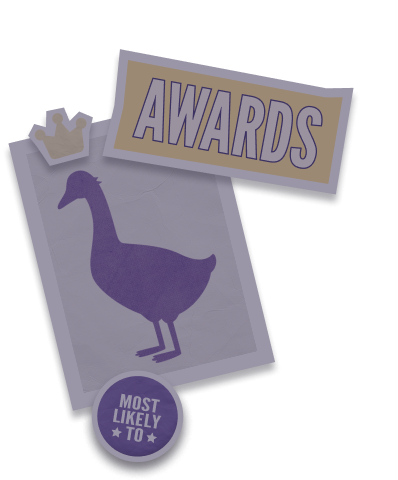
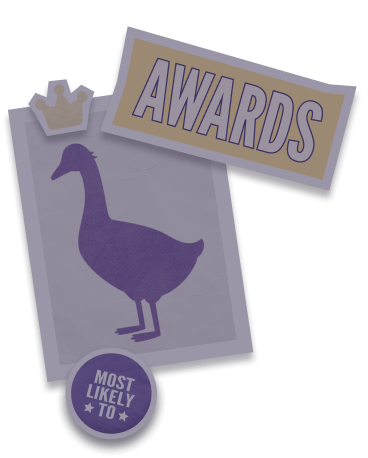
Finished landing page v1

diff --git a/src/app/landing.scss b/src/app/landing.scss
@@ -69,11 +69,6 @@
       transition: transform 0.2s ease, filter 0.2s ease;
       cursor: pointer;
       
-      &:hover {
-        transform: scale(1.05);
-        z-index: 12;
-      }
-      
       &:active {
         transform: scale(0.95);
       }
@@ -92,6 +87,10 @@
       width: 16.5%;
       height: auto;
       z-index: 11;
+
+      &:hover {
+        transform: rotate(6deg) scale(1.05);
+      }
     }
     
     .manchester-sticker {
@@ -100,6 +99,10 @@
       width: 13.7%;
       height: auto;
       z-index: 11;
+
+      &:hover {
+        transform: rotate(5deg) scale(1.05);
+      }
     }
       
     .demographics-sticker {
@@ -108,6 +111,10 @@
       width: 36%;
       height: auto;
       z-index: 11;
+
+      &:hover {
+        transform: rotate(-1.5deg) scale(1.055);
+      }
     }
 
     .gallery-sticker {
@@ -116,6 +123,10 @@
       width: 13%;
       height: auto;
       z-index: 11;
+
+      &:hover {
+        transform: rotate(-5deg) scale(1.05);
+      }
     }
 
     .co-op-sticker {
@@ -124,6 +135,10 @@
       width: 19%;
       height: auto;
       z-index: 11;
+
+      &:hover {
+        transform: rotate(-3deg) scale(1.05);
+      }
     }
 
     .academics-sticker {
@@ -132,6 +147,10 @@
       width: 18%;
       height: auto;
       z-index: 11;
+
+      &:hover {
+        transform: rotate(5.3deg) scale(1.05);
+      }
     }
 
     .pre-mgte-sticker {
@@ -140,6 +159,10 @@
       width: 18%;
       height: auto;
       z-index: 11;
+
+      &:hover {
+        transform: rotate(4.5deg) scale(1.05);
+      }
     }
 
     .lifestyle-sticker {
@@ -148,6 +171,10 @@
       width: 26%;
       height: auto;
       z-index: 11;
+
+      &:hover {
+        transform: rotate(-3deg) scale(1.05);
+      }
     }
 
     .awards-sticker {
@@ -156,6 +183,10 @@
       width: 13.5%;
       height: auto;
       z-index: 11;
+
+      &:hover {
+        transform: rotate(-4.3deg) scale(1.05);
+      }
     }
   }
 

diff --git a/src/app/page.tsx b/src/app/page.tsx
@@ -10,10 +10,6 @@ const Home = () => {
   const [clicked, setClicked] = useState<string | null>(null);
   const breakpoint = useBreakpoint();
 
-  // TODO: 
-  // fix hover and active sizing for stickers
-  // test responsiveness
-
   return (
     <div className="landing-container">
       <div className="book-container">
